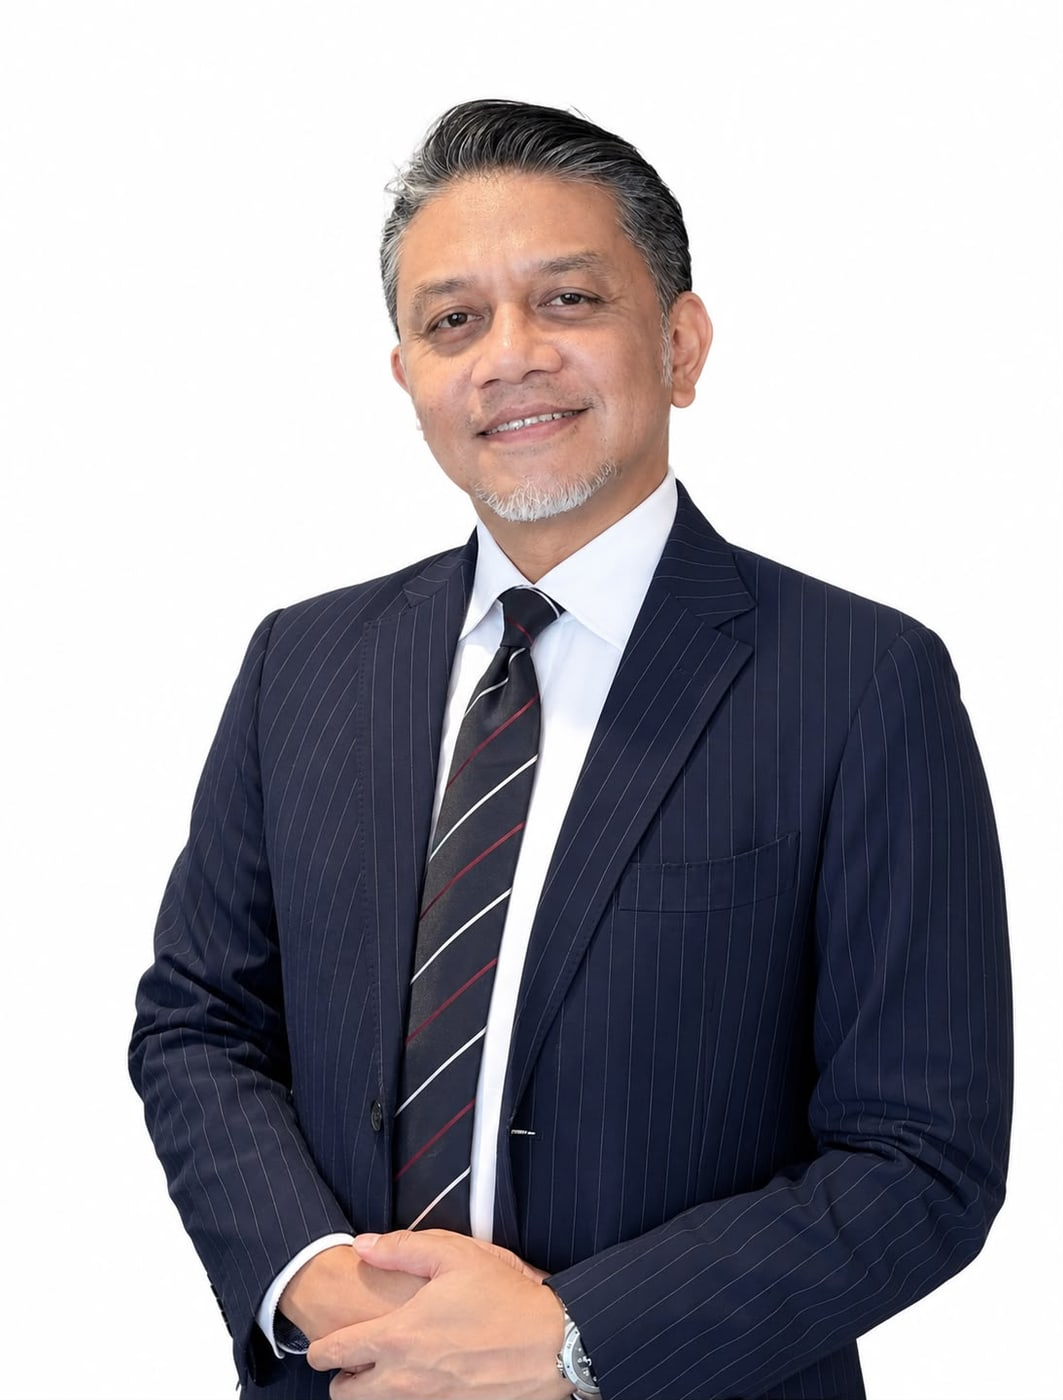
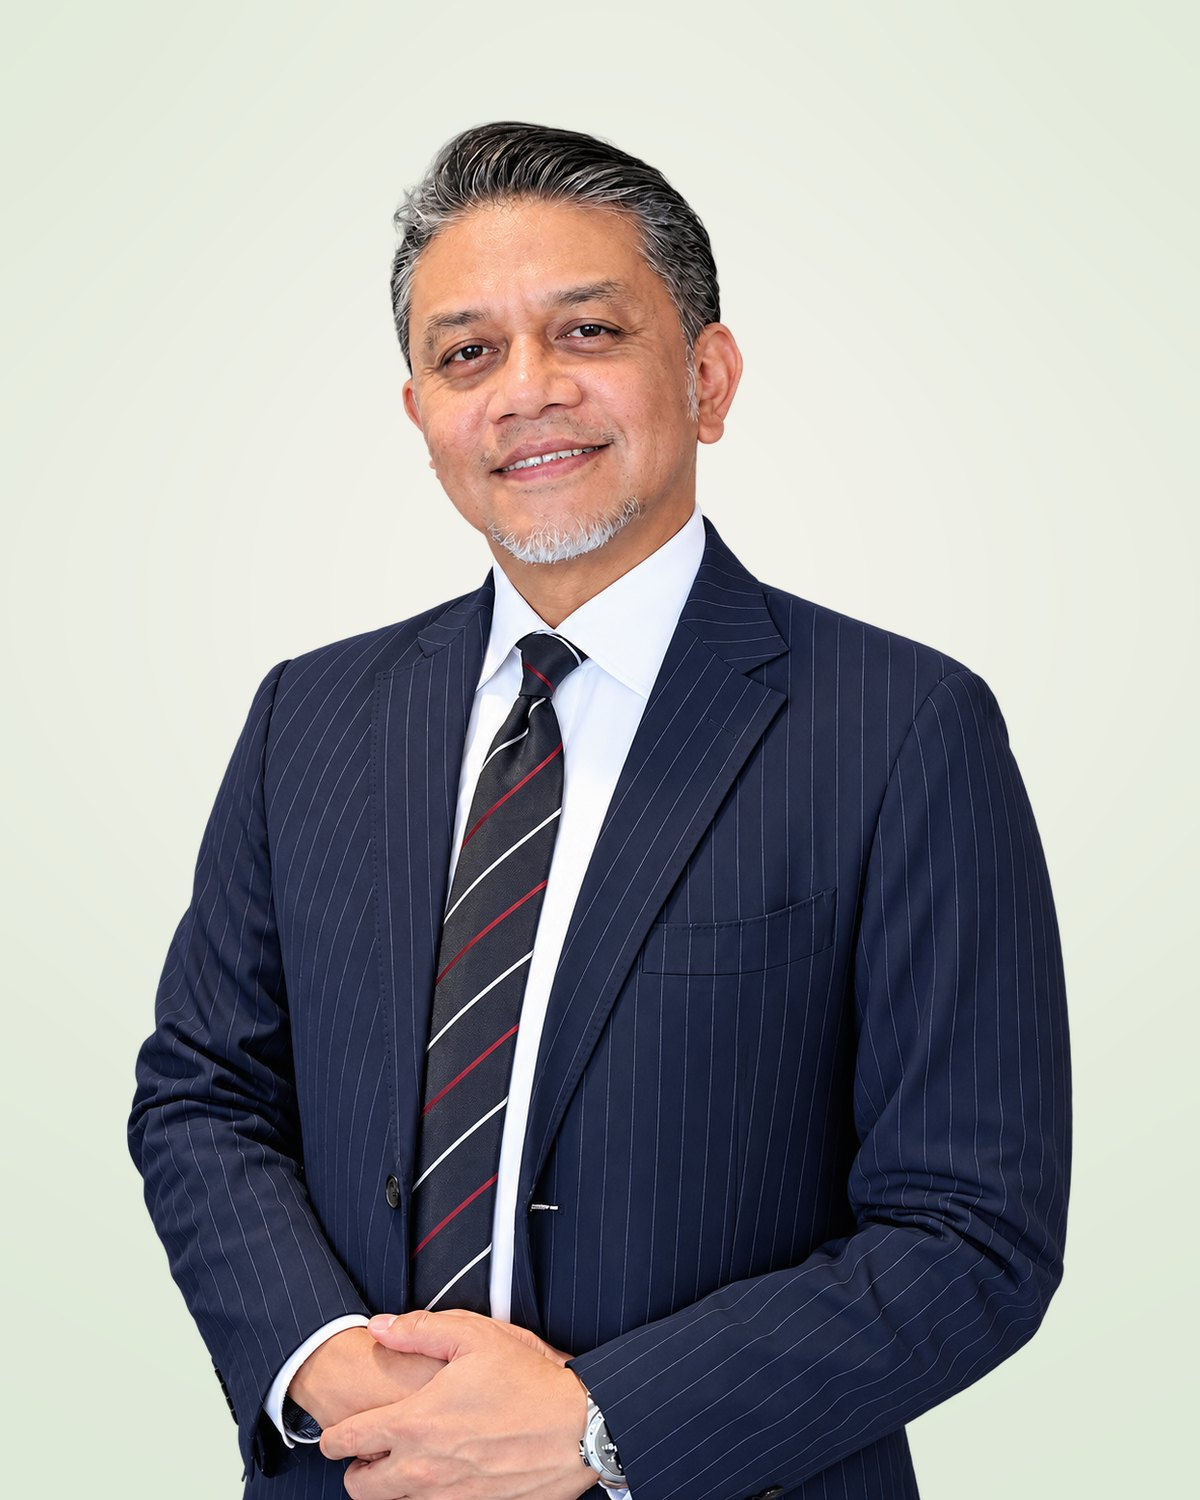
Founder portraits on one shared backdrop; seed overwrite re-uploads changed media
The three cut-outs the client sent (transparent PNG) are composited by scripts/compose-people.py onto the same
4:5 canvas and brand-tint backdrop with a soft lighter centre, bottom-aligned at the same scale, so the portraits
read as one set. The leader photo frame drops its crop offset and tint. SEED_OVERWRITE now re-uploads a media file
whose size on disk differs from the stored one (Payload update with filePath), so changed assets reach the CMS.

diff --git a/src/seed/store.ts b/src/seed/store.ts
@@ -6,7 +6,8 @@ export type SeedCollection = 'services' | 'group-entities' | 'milestones' | 'cli
 export interface SeedStore {
   find(collection: SeedCollection, key: string, value: string, locale: Locale): Promise<Data | undefined>
   create(collection: SeedCollection, data: Data, locale: Locale, filePath?: string): Promise<Data>
-  update(collection: SeedCollection, id: string | number, data: Data, locale: Locale): Promise<Data>
+  /** With `filePath`, the stored file is replaced too (overwrite of a changed asset). */
+  update(collection: SeedCollection, id: string | number, data: Data, locale: Locale, filePath?: string): Promise<Data>
   delete(collection: SeedCollection, id: string | number): Promise<void>
   global(slug: string, locale: Locale): Promise<Data>
   updateGlobal(slug: string, data: Data, locale: Locale): Promise<Data>
@@ -20,8 +21,8 @@ export function payloadStore(payload: Payload): SeedStore {
     async create(collection, data, locale, filePath) {
       return (await payload.create({ collection, data: data as RequiredDataFromCollectionSlug<SeedCollection>, locale, depth: 0, overrideAccess: true, ...(filePath ? { filePath } : {}) })) as unknown as Data
     },
-    async update(collection, id, data, locale) {
-      return (await payload.update({ collection, id, data: data as Partial<DataFromCollectionSlug<SeedCollection>>, locale, depth: 0, overrideAccess: true })) as unknown as Data
+    async update(collection, id, data, locale, filePath) {
+      return (await payload.update({ collection, id, data: data as Partial<DataFromCollectionSlug<SeedCollection>>, locale, depth: 0, overrideAccess: true, ...(filePath ? { filePath, overwriteExistingFiles: true } : {}) })) as unknown as Data
     },
     async delete(collection, id) {
       await payload.delete({ collection, id, depth: 0, overrideAccess: true })

diff --git a/src/seed/run.ts b/src/seed/run.ts
@@ -1,4 +1,4 @@
-import { readFile } from 'node:fs/promises'
+import { stat, readFile } from 'node:fs/promises'
 import path from 'node:path'
 import type { Locale } from '../i18n/config.ts'
 import { mediaAlt, retiredServices, seedFiles } from './manifest.ts'
@@ -26,7 +26,11 @@ export async function runSeed(store: SeedStore, root: string, overwrite = false)
   async function upsert(collection: SeedCollection, key: string, value: string, data: (locale: Locale) => Data, marker: string, filePath?: string) {
     let doc = await store.find(collection, key, value, 'en')
     if (!doc) doc = await store.create(collection, data('en'), 'en', filePath)
-    else if (overwrite) doc = await store.update(collection, doc.id as number | string, object(alignArrayIDs(data('en'), doc)), 'en')
+    else if (overwrite) {
+      // A changed asset (different size on disk) is re-uploaded; an unchanged one keeps its file and sizes.
+      const changed = filePath && (await stat(filePath)).size !== doc.filesize
+      doc = await store.update(collection, doc.id as number | string, object(alignArrayIDs(data('en'), doc)), 'en', changed ? filePath : undefined)
+    }
     const idDoc = await store.find(collection, key, value, 'id')
     if (overwrite || !idDoc || !atPath(idDoc, marker)) await store.update(collection, doc.id as number | string, object(alignArrayIDs(data('id'), doc)), 'id')
     return doc.id as number | string

diff --git a/design/components.css b/design/components.css
@@ -370,8 +370,9 @@
 .af-leaders__head { display: grid; gap: var(--space-5); align-content: space-between; justify-items: start; }
 .af-leaders__list { display: contents; }
 .af-leader { display: grid; gap: var(--space-3); align-content: start; }
-.af-leader__photo { aspect-ratio: 4 / 5; border-radius: var(--radius-xl) var(--radius-xl) var(--radius-xl) var(--radius-leaf); background: var(--surface-soft); }
-.af-leader__photo img { object-position: 50% 12%; filter: saturate(.85) contrast(1.02); }
+/* Portraits are pre-composited on one shared brand-tint backdrop (design/assets/People), so no crop offset or tint */
+.af-leader__photo { aspect-ratio: 4 / 5; border-radius: var(--radius-xl) var(--radius-xl) var(--radius-xl) var(--radius-leaf); background: var(--brand-tint); }
+.af-leader__photo img { object-position: 50% 0; filter: none; }
 .af-leader__photo::after { display: none; }
 .af-leader:nth-child(2n) .af-leader__photo { border-radius: var(--radius-xl) var(--radius-leaf) var(--radius-xl) var(--radius-xl); }
 .af-leader__meta { display: flex; gap: var(--space-3); align-items: flex-start; }

diff --git a/src/styles/components.css b/src/styles/components.css
@@ -370,8 +370,9 @@
 .af-leaders__head { display: grid; gap: var(--space-5); align-content: space-between; justify-items: start; }
 .af-leaders__list { display: contents; }
 .af-leader { display: grid; gap: var(--space-3); align-content: start; }
-.af-leader__photo { aspect-ratio: 4 / 5; border-radius: var(--radius-xl) var(--radius-xl) var(--radius-xl) var(--radius-leaf); background: var(--surface-soft); }
-.af-leader__photo img { object-position: 50% 12%; filter: saturate(.85) contrast(1.02); }
+/* Portraits are pre-composited on one shared brand-tint backdrop (design/assets/People), so no crop offset or tint */
+.af-leader__photo { aspect-ratio: 4 / 5; border-radius: var(--radius-xl) var(--radius-xl) var(--radius-xl) var(--radius-leaf); background: var(--brand-tint); }
+.af-leader__photo img { object-position: 50% 0; filter: none; }
 .af-leader__photo::after { display: none; }
 .af-leader:nth-child(2n) .af-leader__photo { border-radius: var(--radius-xl) var(--radius-leaf) var(--radius-xl) var(--radius-xl); }
 .af-leader__meta { display: flex; gap: var(--space-3); align-items: flex-start; }

diff --git a/scripts/compose-people.py b/scripts/compose-people.py
@@ -1,0 +1,36 @@
+# Composite the three founder cut-outs onto one shared backdrop (brand tint with a soft lighter centre), same
+# canvas (4:5), same headroom and scale, so the portraits read as one set.
+import sys
+from PIL import Image, ImageDraw, ImageFilter
+
+# Sources: the client cut-outs (transparent PNG) as sent on 24 Oct 2026; pass the output folder as argv[1].
+SRC = {
+  'yukifri-nazir': r'C:\Users\Lenovo\Downloads\Potret Profesional Pria Bersetelan Pinstripe.png',
+  'deny-y-imran':  r'C:\Users\Lenovo\Downloads\Potret Pria Formal Berlatar Transparan.png',
+  'mulyadi':       r'C:\Users\Lenovo\Downloads\Pria Senior Berkacamata dengan Jam Tangan.png',
+}
+OUT = sys.argv[1]
+W, H = 1200, 1500
+BG, GLOW = (223, 233, 216), (244, 242, 236)   # --brand-tint, --surface
+
+def backdrop():
+    bg = Image.new('RGB', (W, H), BG)
+    glow = Image.new('L', (W, H), 0)
+    ImageDraw.Draw(glow).ellipse((W*0.05, H*0.02, W*0.95, H*0.78), fill=255)
+    glow = glow.filter(ImageFilter.GaussianBlur(220))
+    return Image.composite(Image.new('RGB', (W, H), GLOW), bg, glow)
+
+for name, path in SRC.items():
+    im = Image.open(path).convert('RGBA')
+    bbox = im.getchannel('A').point(lambda v: 255 if v > 12 else 0).getbbox()
+    cut = im.crop(bbox)
+    sw, sh = cut.size
+    # Same rule for all: the figure fills 92% of the canvas height, never more than 94% of its width.
+    scale = min(0.92 * H / sh, 0.94 * W / sw)
+    cut = cut.resize((round(sw * scale), round(sh * scale)), Image.LANCZOS)
+    canvas = backdrop()
+    x = (W - cut.width) // 2
+    y = H - cut.height            # bottom-aligned: the body runs out of the frame, as in the originals
+    canvas.paste(cut, (x, y), cut)
+    canvas.save(f'{OUT}/{name}.jpg', 'JPEG', quality=86, optimize=True, progressive=True)
+    print(name, 'subject', (sw, sh), 'scale', round(scale, 3), 'placed at', (x, y), 'head room', y)
